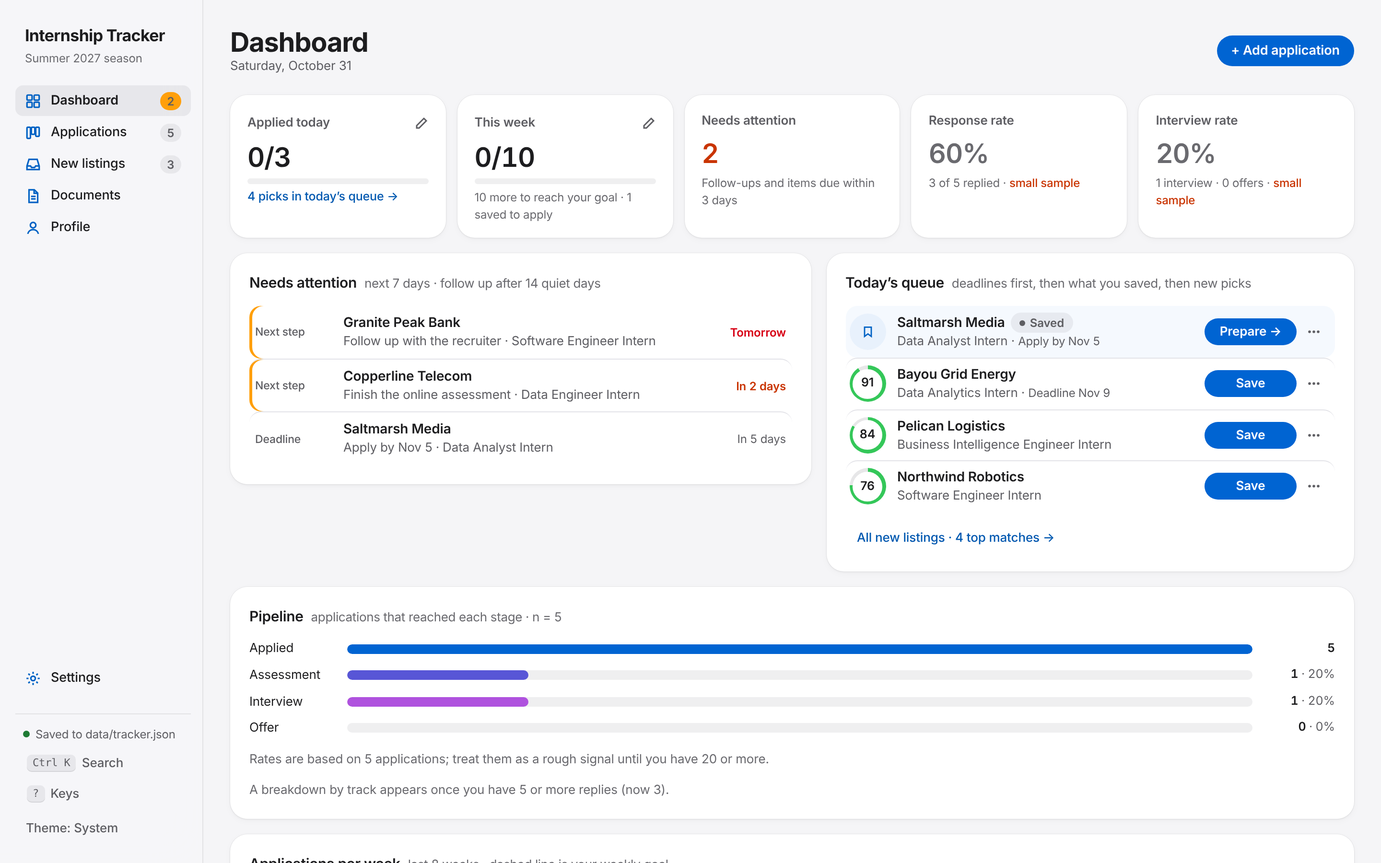
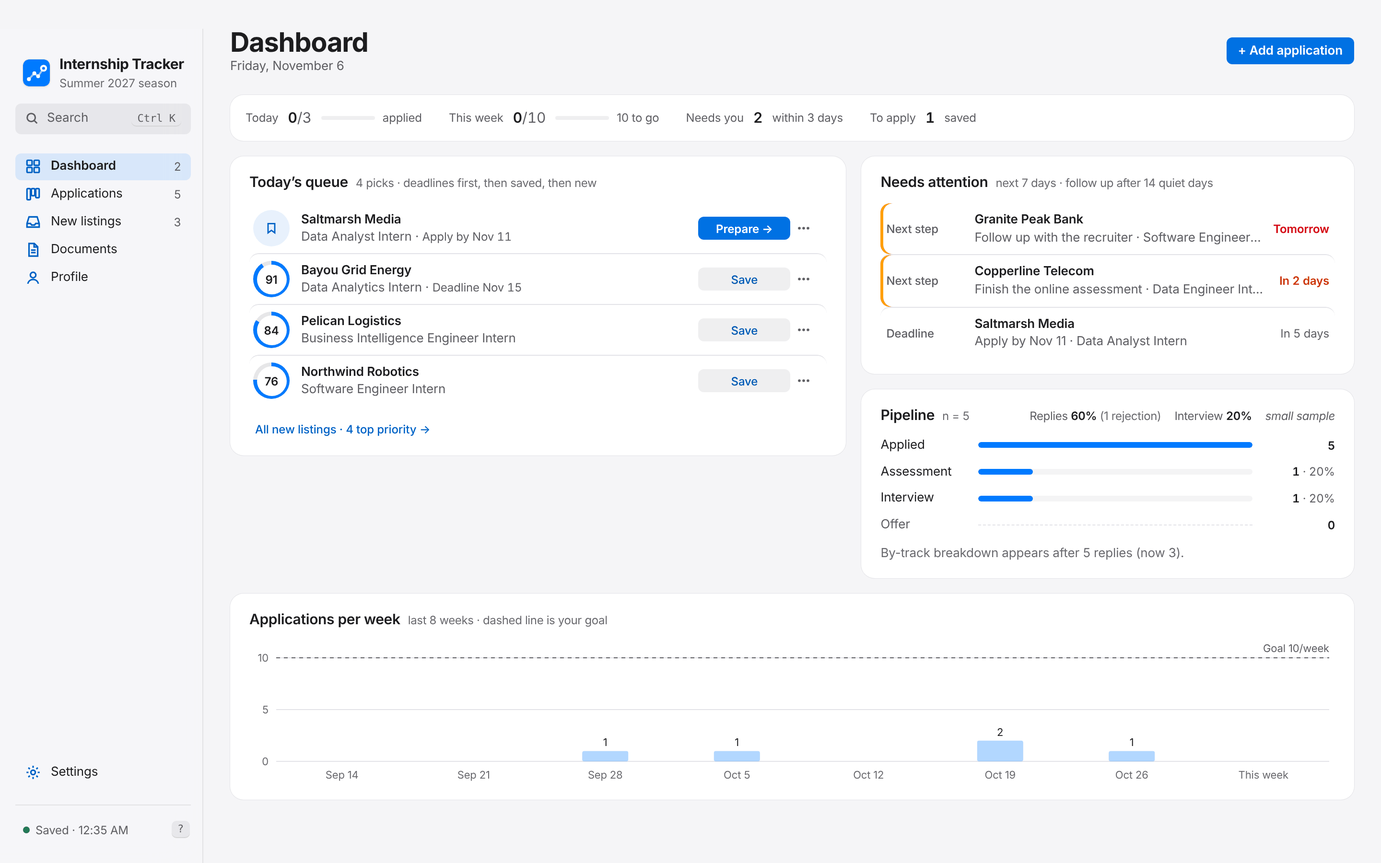
Package as a portfolio project: README story, case study, changelog, Clipper docs and design
- README opens with the problem, how the project evolved (v1 Notion scraper, v2 MCP agent,
  v3 this app), highlights, an honest "how it was built" note and fresh screenshots
- docs/CASE_STUDY.md: design decisions and trade-offs (rules rank and the model reads,
  eligibility apart from fit, truthful tailoring, sponsorship data, local-first, cost)
- CHANGELOG.md: milestones 0.1 to 0.4
- extension/README.md: install, how it reads a posting, permissions and why
- Tracker Clipper restyled to the app's design (Apple blue, segmented control, drawn check)
- Screenshots regenerated from the synthetic demo data; internal review notes moved to docs/dev

Claude-Session: https://claude.ai/code/session_01AKncLGpvtfPZQduYRFKLDE

diff --git a/extension/popup.css b/extension/popup.css
@@ -1,16 +1,19 @@
+/* Same tokens as the app (apple.css): Apple blue accent, system greys, concentric radii. */
 :root{
-  --bg:#FFFFFF; --sunk:#F1F2F4; --ink:#222831; --muted:#495464; --faint:#5F6774; --line:#D9DBE0; --line-strong:#BBBFCA;
-  --accent:#14213D; --accent-ink:#FFFFFF; --accent-soft:#E2E6EF; --good:#2E7D57; --warn:#7A5600; --warn-bg:#FFF2CC; --bad:#C0342A;
-  color-scheme:light;
+  --bg:#FFFFFF; --sunk:#F5F5F7; --fill:rgba(118,118,128,.12); --fill-3:rgba(118,118,128,.08); --ink:#1D1D1F; --muted:#55555A; --faint:#6E6E73;
+  --line:#E5E5EA; --line-strong:#C7C7CC; --accent:#0071E3; --accent-ink:#FFFFFF; --tint:#007AFF; --link:#0058B0;
+  --good:#1E7A34; --warn:#B35A00; --warn-bg:#FFF4E5; --bad:#D70015; --r-ctl:8px;
+  --focus:0 0 0 3px color-mix(in srgb,#007AFF 45%,transparent); color-scheme:light;
 }
 @media (prefers-color-scheme: dark){:root{
-  --bg:#232831; --sunk:#2A303A; --ink:#ECECEA; --muted:#BBBFCA; --faint:#9AA0AB; --line:#363D49; --line-strong:#4A5260;
-  --accent:#AFC2E4; --accent-ink:#141821; --accent-soft:#2C3850; --good:#7CC7A0; --warn:#FFBF00; --warn-bg:#3D3318; --bad:#F2877C; color-scheme:dark}}
+  --bg:#1C1C1E; --sunk:#2C2C2E; --fill:rgba(118,118,128,.24); --fill-3:rgba(118,118,128,.16); --ink:#F5F5F7; --muted:#AEAEB2; --faint:#98989D;
+  --line:#38383A; --line-strong:#48484A; --accent:#0071E3; --accent-ink:#FFFFFF; --tint:#0A84FF; --link:#64B5FF;
+  --good:#30D158; --warn:#FF9F0A; --warn-bg:#3A2A10; --bad:#FF6961; --focus:0 0 0 3px color-mix(in srgb,#0A84FF 55%,transparent); color-scheme:dark}}
 *{box-sizing:border-box}
 [hidden]{display:none!important}
 html,body{margin:0}
-body{width:380px;background:var(--bg);color:var(--ink);font:13px/1.4 ui-sans-serif,system-ui,-apple-system,"Segoe UI",sans-serif}
-.top{display:flex;align-items:center;gap:8px;padding:12px 14px;border-bottom:1px solid var(--line)}
+body{width:380px;background:var(--bg);color:var(--ink);font:13px/1.4 -apple-system,BlinkMacSystemFont,"SF Pro Text","Helvetica Neue",system-ui,sans-serif;-webkit-font-smoothing:antialiased}
+.top{display:flex;align-items:center;gap:8px;padding:12px 14px;border-bottom:.5px solid var(--line)}
 .top h1{flex:1;margin:0;font-size:14px;font-weight:600}
 .conn{display:inline-flex;align-items:center;gap:5px;font-size:11.5px;color:var(--faint)}
 .conn i{width:7px;height:7px;border-radius:50%;background:var(--line-strong)}
@@ -22,37 +25,39 @@ form{display:flex;flex-direction:column;gap:9px}
 .field>span{font-size:11.5px;font-weight:600;color:var(--muted);display:flex;align-items:center;gap:6px}
 .from{font-style:normal;font-weight:400;color:var(--faint);font-size:10.5px}
 .from.miss{color:var(--warn)}
-input,select,textarea{font:inherit;color:var(--ink);background:var(--bg);border:1px solid var(--line-strong);border-radius:6px;padding:6px 8px;width:100%;min-width:0}
+input,select,textarea{font:inherit;color:var(--ink);background:var(--bg);border:.5px solid var(--line-strong);border-radius:var(--r-ctl);padding:6px 9px;width:100%;min-width:0;box-shadow:0 .5px 1px rgba(0,0,0,.04)}
 textarea{resize:vertical}
-input:focus-visible,select:focus-visible,textarea:focus-visible,.btn:focus-visible,summary:focus-visible{outline:2px solid var(--accent);outline-offset:1px}
+input:focus-visible,select:focus-visible,textarea:focus-visible,.btn:focus-visible,summary:focus-visible{outline:none;box-shadow:var(--focus);border-color:var(--tint)}
 input:invalid.touched{border-color:var(--bad)}
-.seg{display:grid;grid-template-columns:1fr 1fr;border:1px solid var(--line-strong);border-radius:6px;overflow:hidden;padding:0;margin:0}
+.seg{display:grid;grid-template-columns:1fr 1fr;gap:2px;border:0;border-radius:9px;background:var(--fill);padding:2px;margin:0}
 .seg label{position:relative;cursor:pointer}
 .seg input{position:absolute;opacity:0;pointer-events:none}
-.seg span{display:block;text-align:center;padding:6px 4px;font-weight:500}
-.seg label+label span{border-left:1px solid var(--line-strong)}
-.seg input:checked+span{background:var(--accent);color:var(--accent-ink)}
-.seg input:focus-visible+span{outline:2px solid var(--accent);outline-offset:-3px}
+.seg span{display:block;text-align:center;padding:5px 4px;font-weight:500;border-radius:7px;transition:background .15s}
+
+.seg input:checked+span{background:var(--bg);font-weight:600;box-shadow:0 1px 3px rgba(0,0,0,.12),0 0 0 .5px rgba(0,0,0,.04)}
+@media (prefers-color-scheme: dark){.seg input:checked+span{background:#636366}}
+.seg input:focus-visible+span{box-shadow:var(--focus)}
 .desc summary{cursor:pointer;font-size:12px;color:var(--muted);padding:2px 0}
 .desc textarea{margin-top:6px;font-size:12px}
 .check{display:flex;align-items:flex-start;gap:7px;font-size:12.5px;cursor:pointer}
 .check input{width:auto;margin:2px 0 0}
 .hint{color:var(--faint);font-size:11.5px;margin:2px 0 0;font-weight:400}
-.notice{border:1px solid var(--line);border-radius:6px;padding:8px 10px;background:var(--sunk);display:flex;flex-direction:column;gap:4px;font-size:12.5px}
-.notice.warn{border-color:color-mix(in srgb,var(--warn) 45%,var(--line));background:var(--warn-bg)}
+.notice{border:0;border-radius:10px;padding:8px 10px;background:var(--sunk);display:flex;flex-direction:column;gap:4px;font-size:12.5px}
+.notice.warn{background:var(--warn-bg)}
 .notice a{color:inherit;font-weight:600}
 .err{color:var(--bad);margin:0;font-size:12.5px}
 .acts{display:flex;gap:8px;align-items:center;padding:2px 0 8px}
-.btn{font:inherit;font-weight:600;border-radius:6px;border:1px solid var(--line-strong);background:var(--bg);color:var(--ink);padding:7px 12px;cursor:pointer;text-decoration:none;display:inline-flex;align-items:center;justify-content:center}
-.btn.primary{background:var(--accent);color:var(--accent-ink);border-color:var(--accent);flex:1}
-.btn.ghost{border-color:transparent;color:var(--muted)}
+.btn{font:inherit;font-weight:500;border-radius:var(--r-ctl);border:0;background:var(--fill);color:var(--ink);padding:7px 12px;cursor:pointer;text-decoration:none;display:inline-flex;align-items:center;justify-content:center}
+.btn.primary{background:var(--accent);color:var(--accent-ink);flex:1;font-weight:600}
+.btn.primary:hover{background:#0077ED}
+.btn.ghost{background:transparent;color:var(--link)}
 .btn.sm{padding:4px 9px;font-size:12px}
 .btn:disabled{opacity:.55;cursor:default}
 .done{padding:22px 16px 10px;text-align:center;display:flex;flex-direction:column;align-items:center;gap:6px}
 .done .ok{width:40px;height:40px;border-radius:50%;background:var(--good);color:#fff;display:grid;place-items:center;font-size:20px;font-weight:700}
 .done h2{margin:4px 0 0;font-size:15px}.done p{margin:0;color:var(--muted)}
 .done .acts{width:100%;margin-top:8px}
-.foot{border-top:1px solid var(--line);padding:6px 14px 10px;font-size:12px;color:var(--faint)}
+.foot{border-top:.5px solid var(--line);padding:6px 14px 10px;font-size:12px;color:var(--faint)}
 .foot summary{cursor:pointer}
 .addr{display:flex;gap:6px;margin-top:6px}
 kbd{font:11px ui-monospace,monospace;border:1px solid var(--line-strong);border-radius:3px;padding:0 4px}

diff --git a/extension/popup.html b/extension/popup.html
@@ -59,7 +59,7 @@
 </main>
 
 <section class="done" id="done" hidden>
-  <div class="ok" aria-hidden="true">✓</div>
+  <div class="ok" aria-hidden="true"><svg viewBox="0 0 16 16" width="20" height="20" fill="none" stroke="currentColor" stroke-width="2" stroke-linecap="round" stroke-linejoin="round"><path d="M3.5 8.5l3 3 6-7"/></svg></div>
   <h2 id="doneTitle">Saved</h2>
   <p id="doneSub"></p>
   <div class="acts"><a class="btn primary" id="openJob" href="#" target="_blank">Open in tracker</a><button class="btn ghost" type="button" id="close">Done</button></div>

diff --git a/README.md b/README.md
@@ -1,27 +1,57 @@
-# Internship Application Tracker
+# Internship Tracker
 
-A local-first web app for an internship search: it pulls new postings, ranks them, checks whether you are actually eligible, helps you build a truthful tailored resume and cover letter, and tracks every application from saved to offer. It runs on your own computer as one page plus a small Python server. There are no runtime dependencies, no account and no cloud database. Claude is optional and is only called when you press a button.
+**A local-first internship search assistant: it finds postings, ranks them by rules you can read, checks whether you are actually eligible, and helps you write a truthful, tailored one-page resume, all from one Profile on your own computer.**
 
-![Job page: eligibility and fit](docs/screenshots/job-eligibility.png)
+[![tests](https://github.com/cccjoshua/internship-tracker/actions/workflows/tests.yml/badge.svg)](https://github.com/cccjoshua/internship-tracker/actions/workflows/tests.yml)
+Python standard library · vanilla JavaScript · Chrome extension (Manifest V3) · optional Claude API · no build step, no account, no cloud database
 
-> **This is a local app, not a website.** The Python server reads and writes files on your computer, so it cannot run on GitHub Pages or any static host. Clone it and run it locally (below).
+![Resume editor: edit on the left, the exact export on the right](docs/screenshots/resume-editor.png)
+
+## Why I built it
+
+As an international MS student applying for Summer 2027 internships, every application took the same four detours: find postings that fit my degree and dates, check whether the employer would ever sponsor a visa, look up what the role actually asks for, and rewrite my resume for it. Job boards rank by recency and my Notion tracker got messy. I wanted one place that answers "what should I apply to today, and what do I send?" without guessing about me.
+
+## How it evolved
+
+| Version | What it was | Why it changed |
+|---|---|---|
+| v1 · Sep 2026 | A Python scraper of the SimplifyJobs feed writing into a Notion database | I still had to filter every posting by hand |
+| v2 · Sep–Oct 2026 | A scheduled AI agent with MCP connectors filtering listings by my criteria into Notion | The Notion layout became too cluttered to decide quickly, and every run cost tokens |
+| v3 · Oct 27, 2026 → | This app: a local web page with a rule-based ranking, plus a Chrome extension for jobs found anywhere | A web page shows the data better; ranking runs on rules at no cost, and Claude is used only where it adds something (reading a posting, drafting a resume) |
+
+The full history is in [CHANGELOG.md](CHANGELOG.md), and the design decisions and trade-offs are in [docs/CASE_STUDY.md](docs/CASE_STUDY.md).
+
+## Highlights
+
+- **Find:** a scheduled refresh of 17,000+ public SimplifyJobs listings, filtered by your Profile (term, U.S. region, degree level, target fields, no citizenship-only roles). **[Tracker Clipper](extension/README.md)**, a Chrome extension, adds a posting from LinkedIn, Workday, Greenhouse, Lever, Ashby or any career site in one click.
+- **Rank without AI:** a 0–100 listing priority from weights you set (role fit 30, skill overlap 25, sponsorship evidence 20, recency 15, degree 5, location 5), with a per-component breakdown. The same formula runs in the browser and the terminal and is parity-tested.
+- **Sponsorship evidence from public data:** USCIS H-1B approvals and Department of Labor LCA filings in software and data occupations, matched to employer legal names. A posting's own "no sponsorship" wording always wins.
+- **Decide:** Claude reads the current posting once and returns structured requirements with quotes; the app then checks **eligibility** (degree, graduation window, CPT/OPT, sponsorship, citizenship) separately from **fit**, so "not eligible" is never hidden behind a good score.
+- **Prepare:** resume tailoring that writes only from confirmed Profile facts, cites the fact behind every bullet, flags numbers or tools the facts do not support, keeps versions, fits one page and exports `.docx`/`.pdf` from one layout engine. Cover letters are checked sentence by sentence.
+- **Track:** board and list, deadlines, interviews, follow-ups, a calendar feed, a Data check for missing or contradictory records, and the exact resume you sent frozen as "Submitted".
+- **Cheap and private:** every Claude call is a button you press, with a cost estimate and a monthly budget. In the author's own use, 41 calls (23 analyses, 17 tailorings, 1 letter) cost about $0.12 in API fees. Data stays in `data/` on your machine.
+
+| | |
+|---|---|
+| ![Dashboard](docs/screenshots/dashboard.png) | ![New listings with the priority breakdown](docs/screenshots/listings.png) |
+| ![Eligibility and fit for one job](docs/screenshots/job-fit.png) | ![Not eligible, dark mode](docs/screenshots/job-not-eligible-dark.png) |
+| ![Resume review: score, checks and Claude's notes](docs/screenshots/resume-review.png) | ![Tracker Clipper](docs/screenshots/clipper.png) |
+
+*Screenshots use the synthetic demo data in `scripts/make_demo_data.py`. Every person, company and link in them is fictional.*
+
+## How it was built
+
+I designed the product, wrote the requirements, chose the filtering rules and scoring weights, and review and test every change in daily use (40 applications tracked so far). The code was written with **Claude Code** as an AI pair programmer. Design notes: [PRODUCT.md](PRODUCT.md) (goals and constraints) and [DESIGN.md](DESIGN.md) (the macOS-style design system).
 
 ## What it does
 
 | Step | What you get |
 |---|---|
-| **Find** | A scheduled refresh of the public [SimplifyJobs](https://github.com/SimplifyJobs) listings feed, filtered by your Profile (term, regions, degree level) and ranked by a transparent **listing priority**. A Chrome extension adds jobs from any other site. |
+| **Find** | A scheduled refresh of the public [SimplifyJobs](https://github.com/SimplifyJobs) listings feed, filtered by your Profile (term, regions, degree level) and ranked by a transparent **listing priority**. The Chrome extension adds jobs from any other site. |
 | **Decide** | Per job: **eligibility** (meets / does not meet / to confirm / not applicable, each with a quote from the posting) kept separate from **candidate fit** (your Profile against the posting). A failed requirement shows "Not eligible", whatever the other scores are. |
-| **Prepare** | A resume editor with the exact export layout, the Profile fact behind every bullet, automatic fact checks, before/after versions, and a one-page fit you can undo. Cover letters are checked sentence by sentence against their sources. |
-| **Send** | `.docx` and `.pdf` export. Each document records whether *this exact content* was reviewed and exported. |
-| **Track** | Board and list views, deadlines, interview rounds, follow-ups, a calendar feed (`/calendar.ics`), a dashboard of what needs you next, backups and undo. |
-
-| | |
-|---|---|
-| ![Dashboard](docs/screenshots/dashboard.png) | ![New listings](docs/screenshots/listings.png) |
-| ![Not eligible, dark mode](docs/screenshots/job-not-eligible-dark.png) | ![Resume editor](docs/screenshots/resume-editor.png) |
-
-*Screenshots use the synthetic demo data in `scripts/make_demo_data.py`. Every person, company and link in them is fictional.*
+| **Prepare** | A resume editor next to the exact export layout, the Profile fact behind every bullet, automatic fact checks, before/after versions, and a one-page fit you can undo. Cover letters are checked sentence by sentence against their sources. |
+| **Send** | `.docx` and `.pdf` export. Each document records whether *this exact content* was reviewed and exported, and the version you sent is kept. |
+| **Track** | Board and list views, deadlines, interview rounds, follow-ups, a calendar feed (`/calendar.ics`), a dashboard of what needs you next, a Data check, backups and undo. |
 
 ## Four scores, kept apart
 
@@ -63,6 +93,10 @@ IAT_AI_STUB=1 python3 server.py --data demo-data --no-fetch --port 8766
 ```
 
 `IAT_AI_STUB=1` replaces every Claude call with a deterministic local answer and shows a banner on the page. The demo can't reach the paid API, and your real `data/` folder is never touched.
+
+### Add the Chrome extension (optional)
+
+Open `chrome://extensions`, turn on Developer mode, choose **Load unpacked** and select the `extension/` folder. Details, supported sites and permissions: [extension/README.md](extension/README.md).
 
 ### Start automatically on macOS (optional)
 
@@ -152,4 +186,4 @@ scripts/make_demo_data.py synthetic demo data       tests/   unit, regression, f
 
 - `fonts/`: Instrument Sans and IBM Plex Mono, SIL Open Font License (license files included). These fonts are no longer used by the page and can be removed.
 - Dev only: Playwright (Apache-2.0).
-- The project itself: **license not chosen yet** (see `docs/REVIEW.md`).
+- The project itself: **license not chosen yet**.

diff --git a/docs/CASE_STUDY.md b/docs/CASE_STUDY.md
@@ -1,0 +1,73 @@
+# Case study: building an honest internship search assistant
+
+*Chia-Chun (Joshua) Chang · Rice University MCS · Sep–Nov 2026*
+
+This note explains the problem, the main design decisions and their trade-offs, and what I would do next. The README covers features and setup.
+
+## 1. Problem
+
+An international MS student applying for Summer 2027 internships repeats the same work for every posting:
+
+1. **Find** postings that match the degree, dates, region and field, out of 17,000+ public listings.
+2. **Check eligibility** before investing time: graduation window, degree level, CPT/OPT, U.S. citizenship or clearance, and whether the employer will sponsor a visa later.
+3. **Prepare** a one-page resume that uses the posting's words without claiming anything untrue.
+4. **Track** what was sent, to whom, and what happens next.
+
+Job boards sort by recency, spreadsheets and Notion get messy, and an LLM asked to "rank these jobs for me" gives answers that are hard to check and cost tokens on every run.
+
+## 2. Iterations
+
+| | Approach | What I learned |
+|---|---|---|
+| v1 (Sep 2026) | Python scraper of the SimplifyJobs feed → Notion | Collecting data is easy; deciding is the hard part |
+| v2 (Sep–Oct 2026) | Scheduled AI agent with MCP connectors filtering into Notion | Automation helped, but Notion became cluttered and each run cost tokens |
+| v3 (Oct 27, 2026 →) | Local web app + Chrome extension; rules rank, Claude reads and drafts | Separate what must be explainable (ranking, eligibility) from what benefits from a language model (reading postings, writing) |
+
+v3 itself went through roughly 55 commits in two weeks: a data-safety pass, the scheduled refresh and scoring, a macOS-style redesign, Claude features, a resume standard based on Rice career-center guidance, and a data-correctness pass (see [CHANGELOG.md](../CHANGELOG.md)).
+
+## 3. Key decisions and trade-offs
+
+### Rules rank, the model reads
+- **Decision.** The listing priority is a fixed, weighted formula (role fit 30, skill overlap 25, sponsorship evidence 20, recency 15, degree 5, location 5) that I chose and can explain. Claude is used only to turn one posting into structured data (requirements, keywords, eligibility rules with quotes) and to draft text.
+- **Why.** A ranking must be repeatable and free to recompute for 170+ postings every two hours. Reading messy job descriptions is where a model is genuinely better than regular expressions.
+- **Trade-off.** The formula cannot "understand" a posting; it relies on detected skills and wording. That is why the per-job page re-reads the posting with Claude on demand.
+
+### Eligibility is never averaged into fit
+- **Decision.** Degree level, graduation window, CPT/OPT, citizenship or clearance, and future sponsorship are judged one by one as meets / does not meet / to confirm / not applicable, each with the quote that decided it. A single "does not meet" shows **Not eligible**, whatever the fit score is.
+- **Why.** A 90% skills match is worthless if the posting requires U.S. citizenship. Averaging would hide exactly the information that saves the most time.
+- **Unknown is not zero.** A requirement the posting does not state is left out of the score instead of counted as a gap, and the page shows how much of the weight it could assess.
+
+### Truthful tailoring
+- **Decision.** The resume writer only receives facts I have confirmed in my Profile. Every bullet cites the fact IDs it came from, and the app flags numbers, tools or "led" claims that the cited facts do not contain. Unconfirmed points are never sent.
+- **Why.** The most expensive resume mistake is a claim you cannot defend in an interview.
+- **Trade-off.** Tailored resumes are more conservative than what an unconstrained model would write. Missing facts come back as questions ("Do you have row counts for that SQL work?") instead of invented numbers.
+
+### Sponsorship evidence from public data
+- **Decision.** Two employer-level signals: USCIS H-1B approvals (FY2023, the last year USCIS published an employer file) and Department of Labor LCA filings in computer and math occupations over the last 12 months. The listing uses the stronger of the two; the posting's own "no sponsorship" wording overrides both.
+- **Hard part.** Employer names differ between job boards and government files ("AMD" vs. "Advanced Micro Devices", "PNNL" vs. "Battelle Memorial Institute"). Matching uses a small alias table, drops only organization words ("BancShares", "Holdings"), and never shortens a name to a generic word, because a wrong match is worse than no match. Approximate matches are labelled as such.
+
+### Local-first
+- **Decision.** One Python standard-library server on 127.0.0.1 and plain files in `data/`. No account, no cloud database, no framework or build step.
+- **Why.** The data is personal (Profile, applications, resumes). Keeping it local removed whole classes of problems: authentication, hosting cost, and sending personal data to third parties.
+- **Trade-off.** It cannot be shown as a live website. The README offers a demo mode with synthetic data and stubbed Claude answers instead.
+
+### Cost control
+- Every Claude call is a button with a cost estimate, checked against a monthly budget before it runs. Posting analysis uses the cheapest model on boilerplate-trimmed text and is cached per job. Tailoring can run on a Claude Pro plan through Claude Code at no API cost.
+- In my own use: 41 calls (23 analyses, 17 tailorings, 1 cover letter) for about $0.12 in API fees.
+
+## 4. Results (Nov 2026)
+
+- 17,664 listings in the feed narrowed to about 170 that fit my Profile, refreshed every 2 hours.
+- 40 applications tracked in one place (22 migrated from Notion).
+- Each tailored resume is one page, cites its sources, and the version sent is kept for interview prep.
+- ~11,600 lines of Python, JavaScript and CSS; unit, regression, parity and browser end-to-end tests run in GitHub Actions without secrets.
+
+## 5. How it was built
+
+I designed the product, wrote the requirements, chose the filtering rules and scoring weights, and review and test every change while using the app daily. The code was written with Claude Code as an AI pair programmer.
+
+## 6. What I would do next
+
+- **Calibrate the weights** against real outcomes once enough applications have replies (the app already logs score vs. outcome).
+- **More sources** than one public feed, through the Chrome extension's queue or official job-board APIs.
+- **A hosted read-only demo** built from the synthetic data, so the app can be tried without cloning it.

diff --git a/CHANGELOG.md b/CHANGELOG.md
@@ -1,0 +1,33 @@
+# Changelog
+
+How the Internship Tracker grew, grouped by milestone. Dates are when the work landed in this repository.
+
+## Before this repository (Sep–Oct 2026)
+- **v1:** a Python scraper of the SimplifyJobs feed writing into a Notion database.
+- **v2:** a scheduled AI agent with MCP connectors that filtered listings by my criteria into Notion. Replaced because the Notion layout became too cluttered and every run cost tokens.
+
+## 0.4 · Truthful resumes and correct data (Nov 6, 2026)
+- **Resume standard** based on Rice Center for Career Development guidance: one page, a reference layout, bolded posting keywords, Professional Experience under Skills, tailoring that updates the current page instead of rewriting it.
+- **Resume score** (match, impact, clarity, format, truth) with the biggest fixes and links to the exact bullet or Profile fact to change; evidence-weighted skill match.
+- **Track briefs:** what employers look for in SWE, data engineering, data analyst/BI and data science internships, used to order each base resume.
+- **Resume page:** edit on the left, the exact export on the right with Fit/100% zoom; Edit, Review and Ask Claude on one segmented control; focusing a bullet marks it on the page.
+- **Submitted versions:** marking a job applied freezes the resume you sent; Documents shows Submitted, edited since, and score per resume.
+- **Data check:** missing or out-of-order dates, duplicates, applied jobs without a submitted resume, unconfirmed Profile points, stale refreshes or sponsorship data.
+- **Sponsorship data:** better employer-name matching for USCIS H-1B approvals (aliases, organization words, labelled approximate matches) and import of Department of Labor LCA filings as the current signal.
+- **Tracker Clipper:** restyled to match the app (Apple-style controls, light and dark).
+- Release polish from an accessibility and design audit: drawn icons, no emoji or decorative stripes, AA contrast.
+
+## 0.3 · A native-feeling app with Claude (Nov 1–2, 2026)
+- Redesign as a macOS-style app with a written design system (`DESIGN.md`) and product brief (`PRODUCT.md`): Dashboard, Applications (board and list), New listings, Documents, Profile, Settings, a ⌘K search palette.
+- **Tracker Clipper**, a Chrome extension (Manifest V3) that reads the posting you are viewing (page data, then site-specific readers for LinkedIn, Workday, Greenhouse, Lever and Ashby) and queues it for the tracker.
+- **Claude features:** posting analysis into structured requirements with quotes; eligibility and fit computed locally; resume tailoring from confirmed Profile facts; "Ask Claude to revise"; base resumes per track; cover letters; a budget and cost estimates; Claude Pro through Claude Code as an alternative to the API.
+- Backend hardening: host and origin checks, safe link following, corrupt-file protection, revision-checked saves.
+- Fixes: long postings cut off during analysis, page scripts leaking into posting text, soft skills counted as skills.
+
+## 0.2 · Listings and a daily workflow (Oct 28, 2026)
+- Scheduled SimplifyJobs refresh every 2 hours with Profile-driven filters, H-1B approval counts and an evidence-based 0–100 priority; a terminal CLI that uses the same formula.
+- Daily checks for closed postings, today's queue and goals, deadlines, follow-ups, one-click Applied, file backups.
+- Migrated 22 applications from Notion.
+
+## 0.1 · Local tracker (Oct 27, 2026)
+- First version: a local single-page tracker served by a Python standard-library server, with fictional example data and data-safety fixes.

diff --git a/extension/README.md b/extension/README.md
@@ -1,0 +1,46 @@
+# Tracker Clipper
+
+A Chrome extension that adds the job posting you are looking at to your local Internship Tracker in one click, from LinkedIn, Handshake, Workday, Greenhouse, Lever, Ashby or any company career site.
+
+![Tracker Clipper](../docs/screenshots/clipper.png)
+
+## Install
+
+1. Start the tracker (`python3 server.py`, default http://127.0.0.1:8765).
+2. Open `chrome://extensions`, turn on **Developer mode**, choose **Load unpacked** and select this `extension/` folder.
+3. Open a job posting and click the extension, or press **Alt+Shift+J**.
+
+If the tracker runs on another port, set it under **Tracker address** at the bottom of the popup.
+
+## What it does
+
+1. **Reads the page** you are viewing, in this order, and labels where each field came from:
+   - structured page data (`JobPosting` JSON-LD, which most career sites publish);
+   - site-specific readers for LinkedIn, Workday, Greenhouse, Lever and Ashby;
+   - the page title, headings and the largest text block as a last resort, or the text you selected before opening the popup.
+2. **Lets you check the fields:** company, role, location, work mode, posted date, deadline, pay, description and track. Fields it could not find, or guessed (such as a listing expiry used as a deadline), are highlighted.
+3. **Warns about duplicates:** if the tracker already has this posting (same link, or same company and role), it says so instead of adding it twice.
+4. **Saves** it as "Save for later" or "I applied today", and can ask Claude to analyze the posting right away (about $0.001).
+
+The tracker queues each clip and removes it from the queue only after it is safely in `tracker.json`, so a clip is never lost if the page is closed.
+
+## Permissions
+
+| Permission | Why |
+|---|---|
+| `activeTab`, `scripting` | Read the posting in the tab you clicked on, only when you open the popup. No background access to other tabs or sites. |
+| `storage` | Remember the tracker address and the "analyze after saving" choice. |
+| `http://127.0.0.1/*`, `http://localhost/*` | Send the clip to your own tracker. Nothing is sent anywhere else. |
+
+The server accepts clips only from the extension and its own page, and only on 127.0.0.1.
+
+## Files
+
+| File | Role |
+|---|---|
+| `manifest.json` | Manifest V3, permissions, shortcut |
+| `extract.js` | Runs in the page: JSON-LD, site readers, fallbacks |
+| `popup.html`, `popup.css`, `popup.js` | The form, duplicate check, save and status |
+| `icons/` | The Waypoint mark at 16–128 px |
+
+Tests: `tests/test_extension.py` (server side of the clip queue) and `tests/test_clips.py`.

diff --git a/PRODUCT.md b/PRODUCT.md
@@ -34,7 +34,7 @@ Opened many times a day for a few minutes at a time; long sessions only when tai
 Feel like a native macOS app (Apple Mail, Reminders, System Settings): quiet, precise, information over decoration. Logo: "Waypoint" (see DESIGN.md §9).
 
 ## Evidence on Hand
-Live app at http://127.0.0.1:8765; `docs/screenshots/`; `docs/REVIEW.md` (2026-10-31 review and axe-core results).
+Live app at http://127.0.0.1:8765; `docs/screenshots/`; `docs/dev/REVIEW.md` (2026-10-31 review and axe-core results).
 
 ## Product Principles
 - Today first: the next action is always visible without scrolling.
